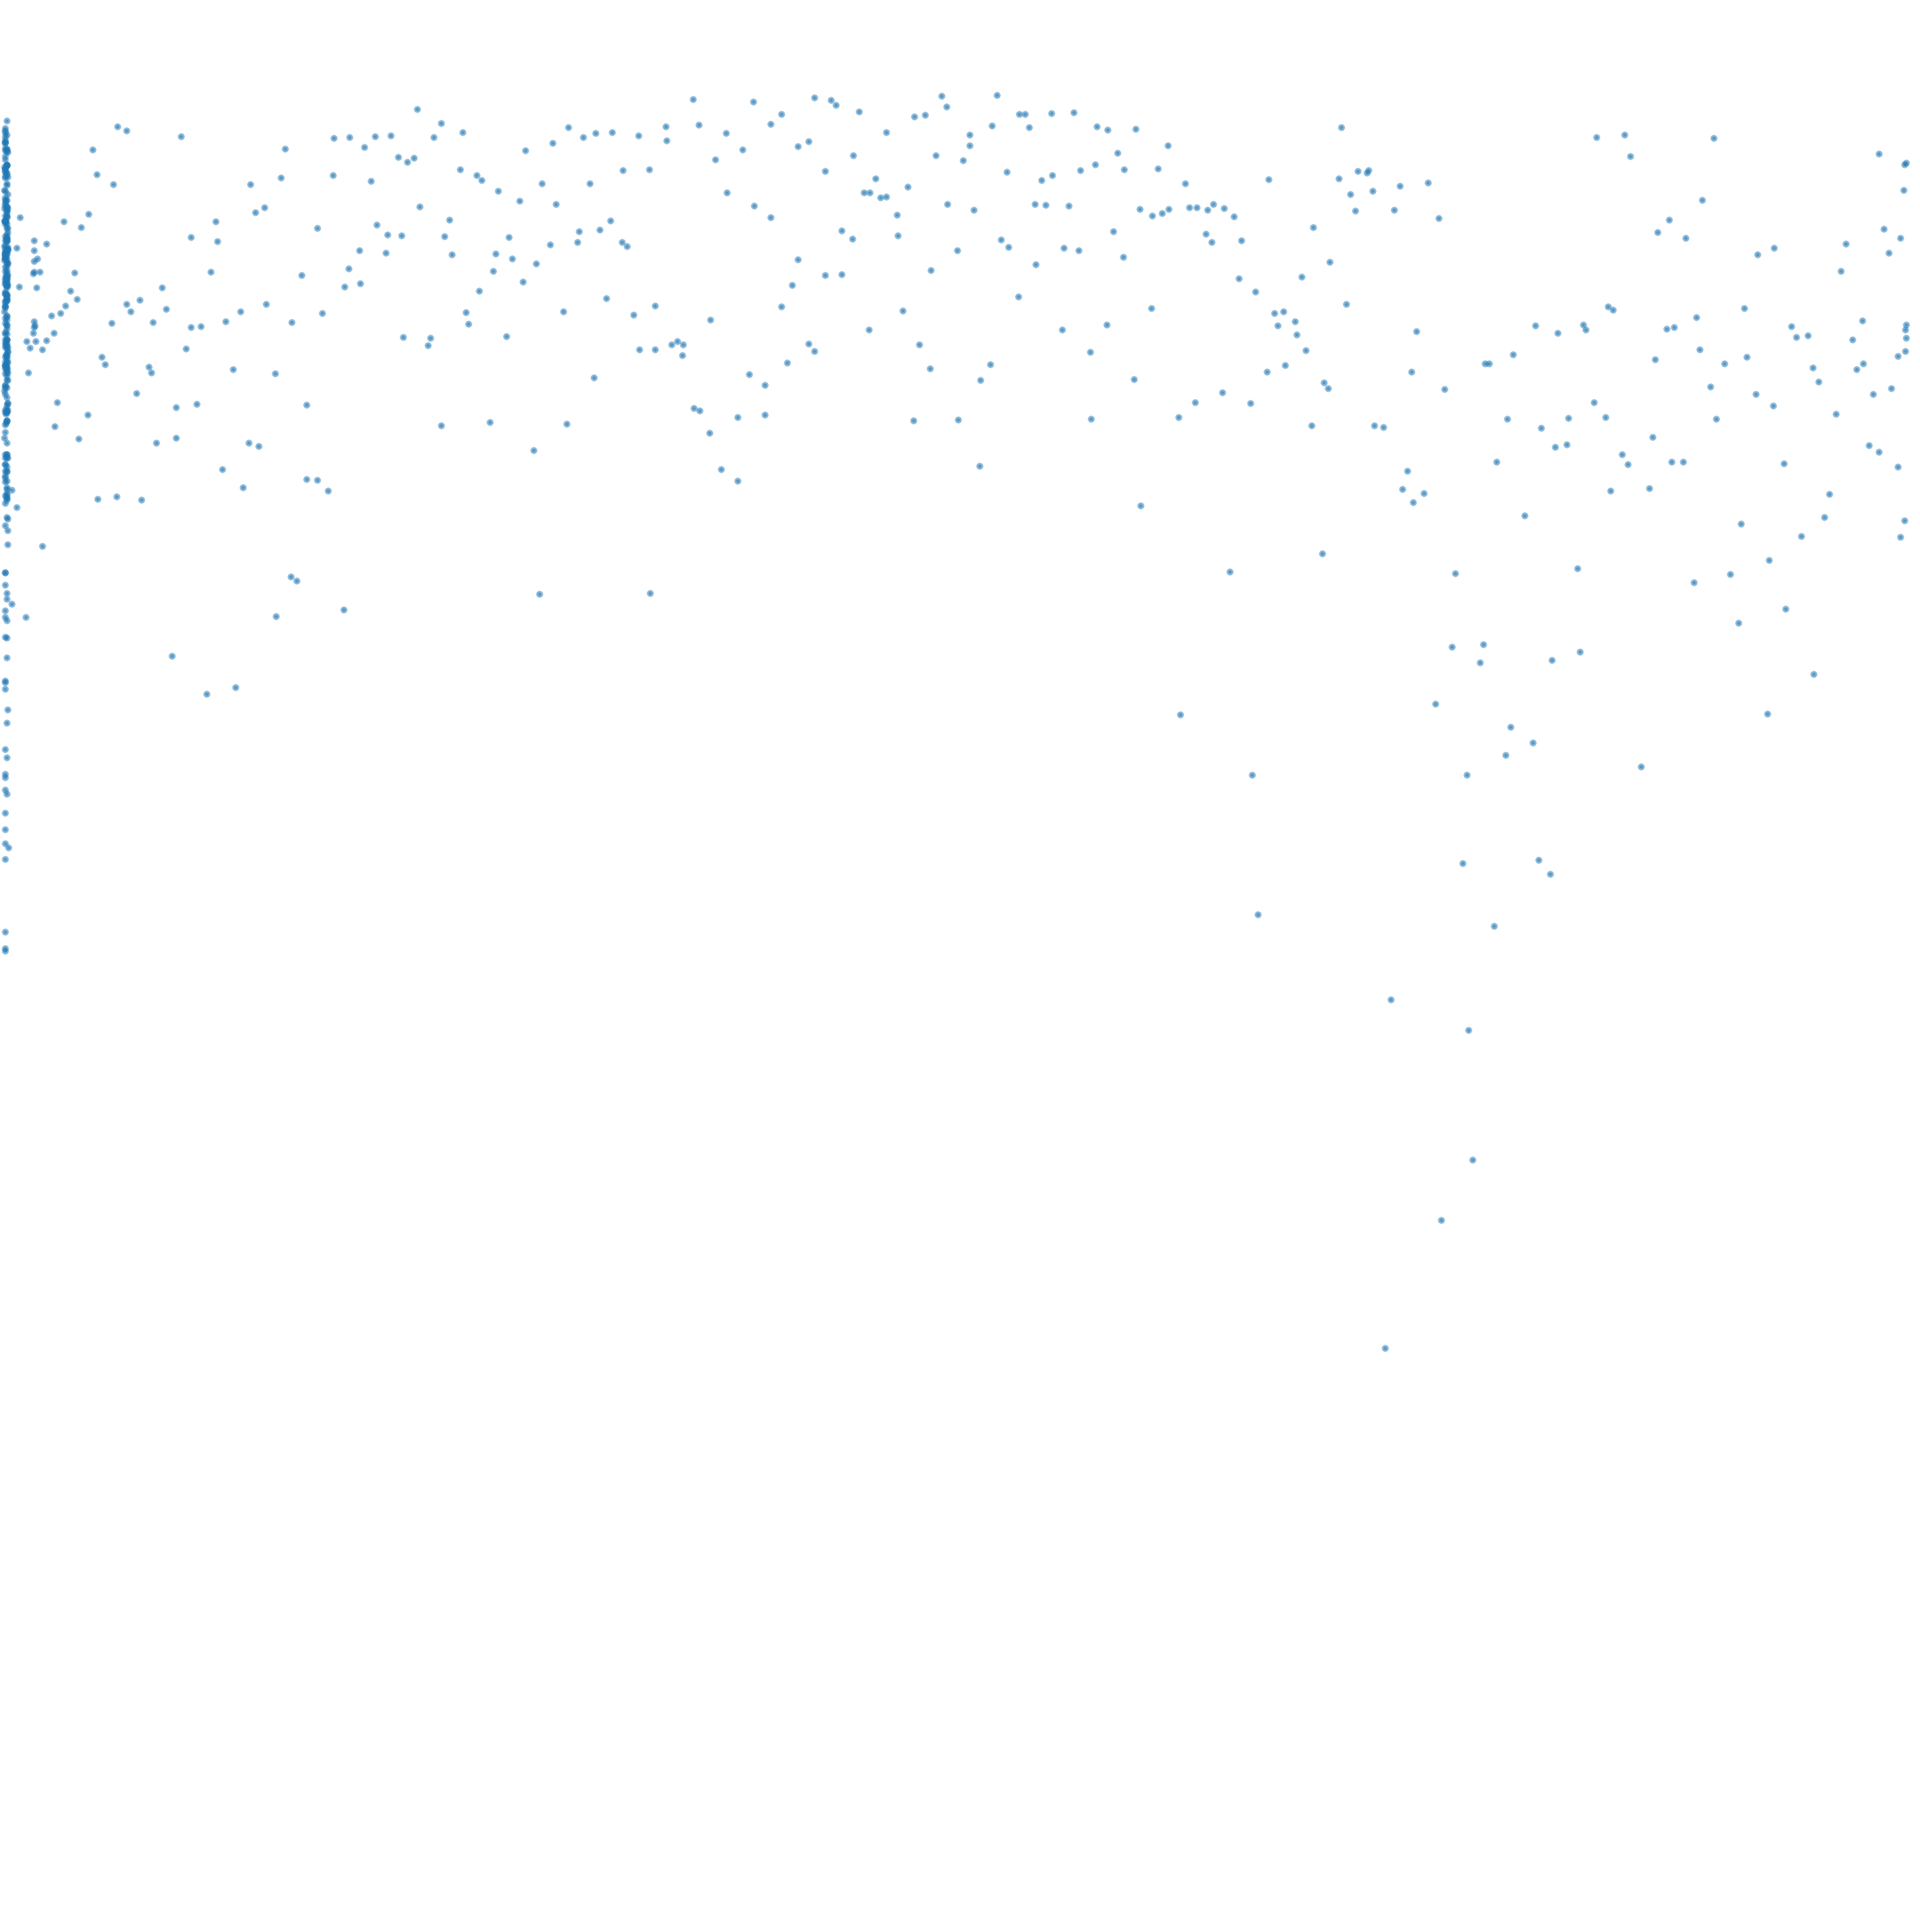
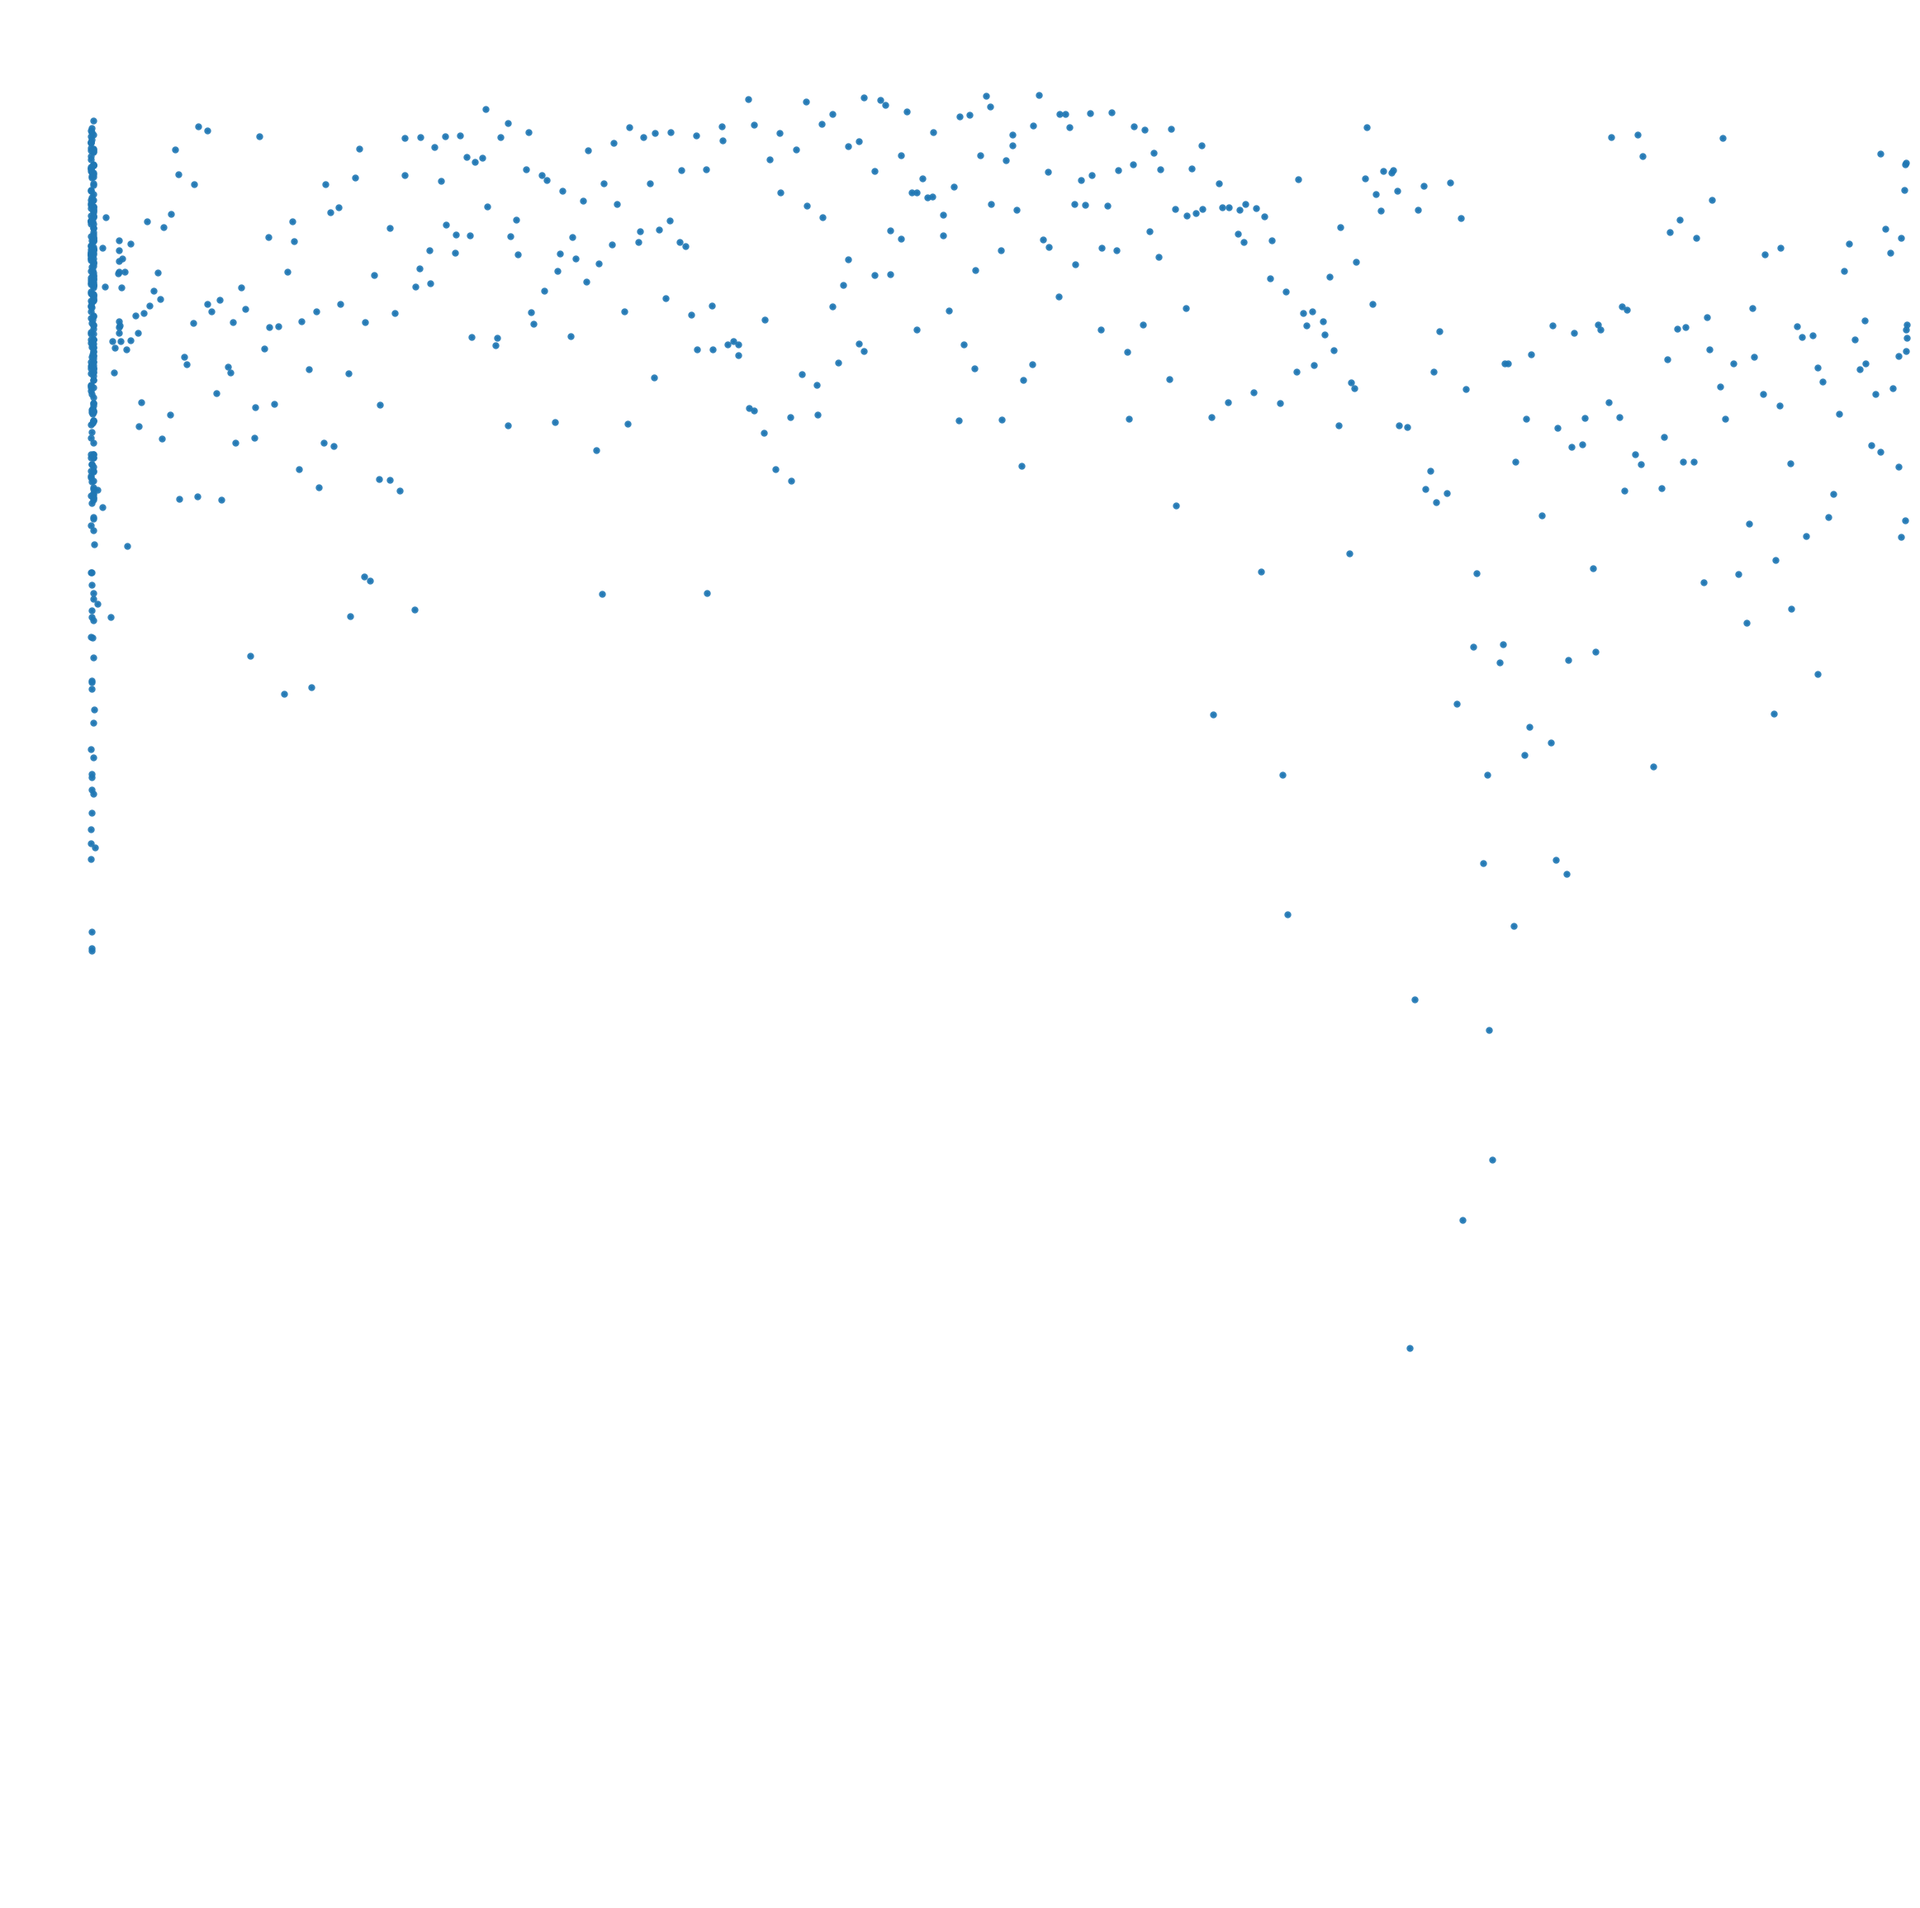
Darken points in image. Add dark versions.

diff --git a/scripts/2D-SNR-Graphs.py b/scripts/2D-SNR-Graphs.py
@@ -4,10 +4,6 @@ import os
 from math import ceil
 
 
-
-
-#Start executable
-
 source_dir = "./dataset/reduced_only_full/"
 output_dir = "./Figures/SNR_v_h_dist/V/"
 chunk_size = 20000 #Take everything at the moment, but may want to do it in smaller batchess later
@@ -21,9 +17,6 @@ for file in os.listdir(source_dir):
 
         #Sorted by time
         df = df.sort_values(by='time')
-        # df['snr'] = df['snr'].apply(process_snr)
-        # df['snr'] = pd.to_numeric(df['snr'], errors='coerce')
-        
 
         #Base target for writing for results from this file
         output_filename = file.replace(".csv", "")
@@ -43,11 +36,12 @@ for file in os.listdir(source_dir):
             #v_dist: 0 to 100
             #h_dist: 30 to 460
 
+            #Darkmode if desired
+            #plt.style.use('dark_background')
             plt.figure(figsize=(10, 10))
-            plt.scatter(df_chunk['h_dist'], df_chunk['avgSnr'], alpha=0.5, s=1)
+            plt.scatter(df_chunk['v_dist'], df_chunk['avgSnr'], alpha=0.9, s=1)
             plt.ylim(-19, -4)
             plt.xlim(right=100)
-            print(df_chunk['v_dist'].describe())
             plt.axis('off')
             plt.savefig(results_target, bbox_inches='tight', pad_inches=0, dpi=300)
             plt.close()
